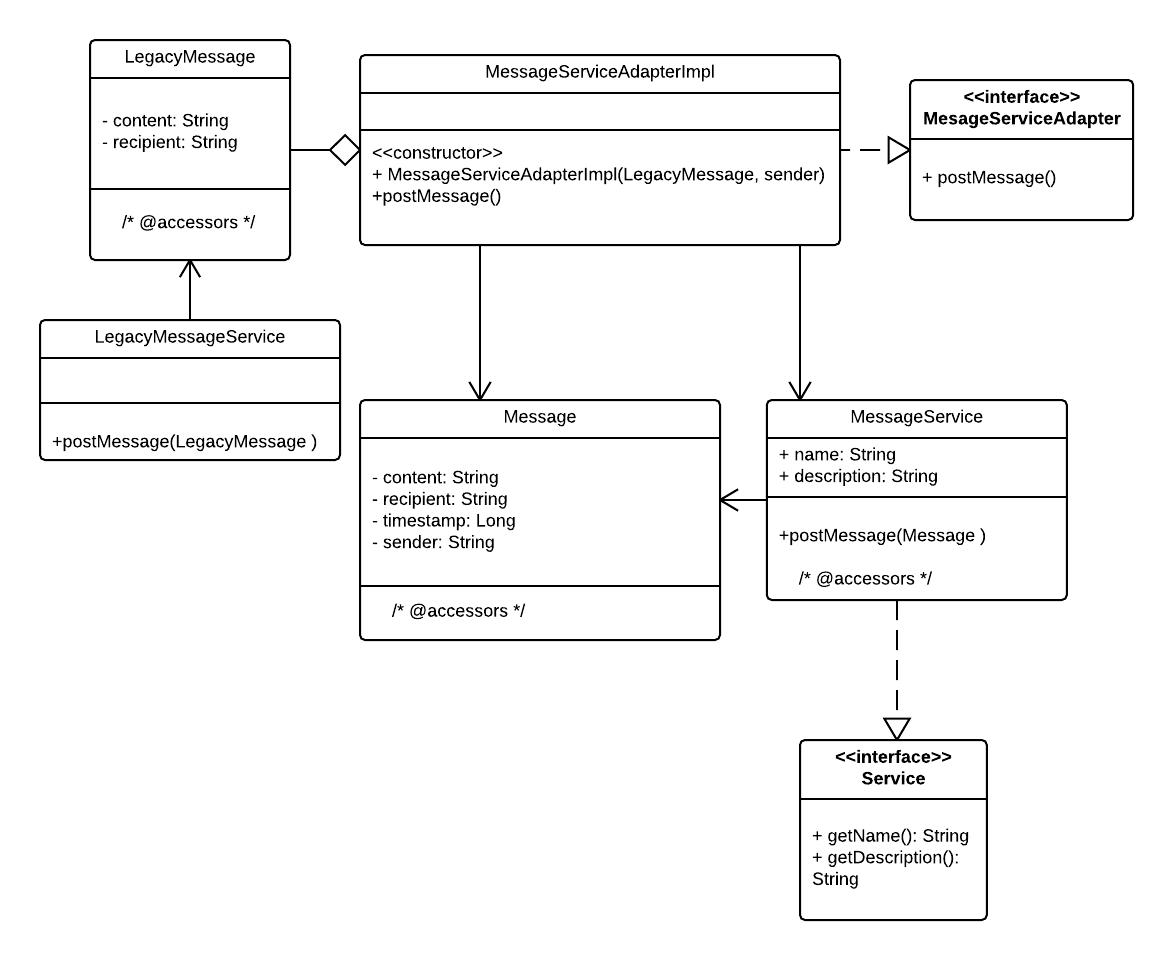
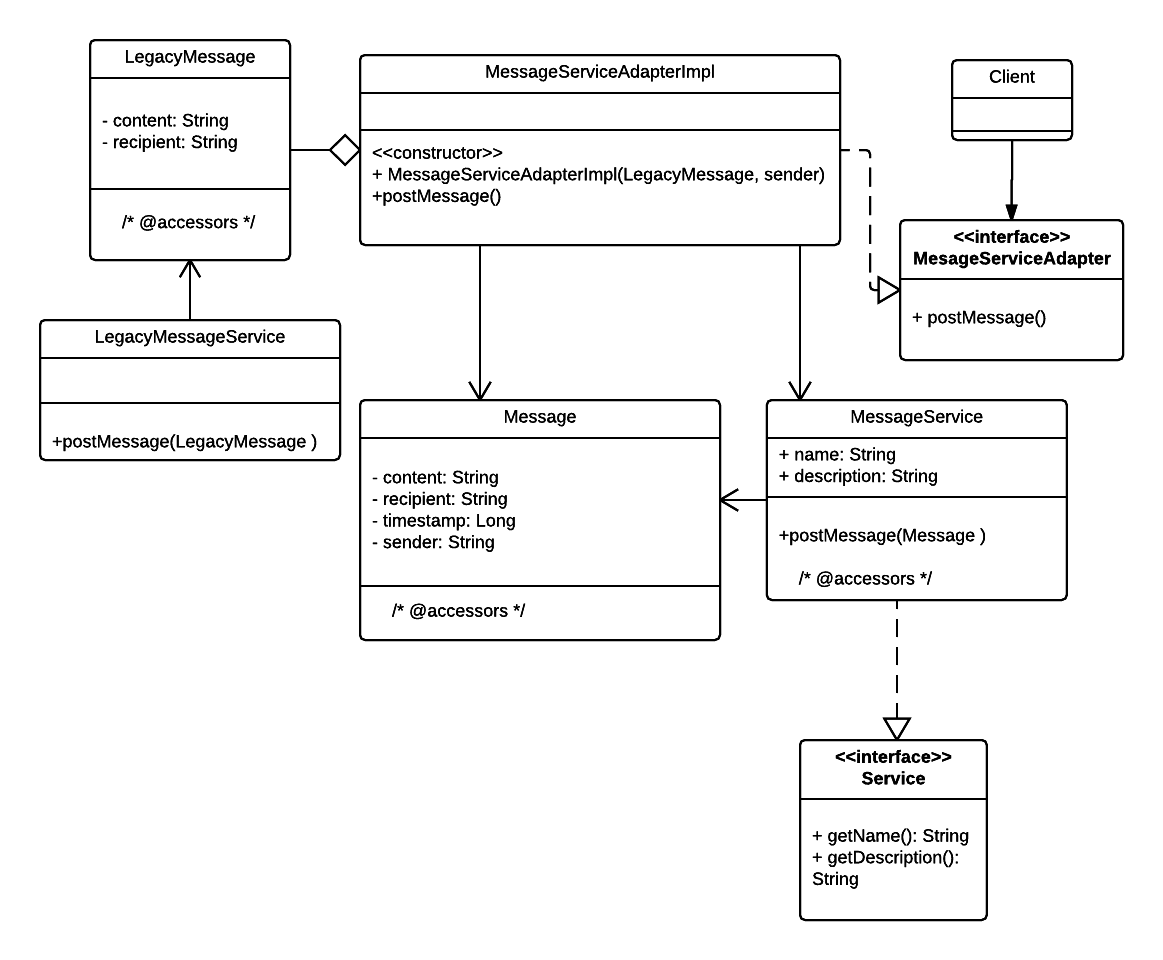
addition to diagram and comments

diff --git a/src/com/acordier/patterns/MessageServiceAdapterImpl.java b/src/com/acordier/patterns/MessageServiceAdapterImpl.java
@@ -19,7 +19,7 @@ public class MessageServiceAdapterImpl implements MessageServiceAdapter{
 		Message message = new Message(legacyMessage.getContent(), null, legacyMessage.getRecipient());
 		message.setSender(this.sender);
 		message.setTimestamp(new Date().getTime());		
-		new MessageService("adapted message service", "sending a legacy messaage adapted for the new world").postMessage(message);
+		new MessageService("adapted message service", "sending a legacy message adapted for the new world").postMessage(message);
 	}
 
 }

diff --git a/src/com/acordier/patterns/AdapterApp.java b/src/com/acordier/patterns/AdapterApp.java
@@ -3,6 +3,8 @@ package com.acordier.patterns;
 public class AdapterApp {
 	/*
 	 * Simple, straight forward adapter design pattern example
+	 * A legacy message system needs to adapt to a bit more sophisticated message system
+	 * Adapter pattern will allow us to provide the legacy world to fit new world requirements
 	 */
 	public static void main(String[] args) {
 		LegacyMessage legacyMessage = new LegacyMessage("bob", "a secret message");

diff --git a/src/com/acordier/patterns/LegacyMessageService.java b/src/com/acordier/patterns/LegacyMessageService.java
@@ -1,7 +1,7 @@
 package com.acordier.patterns;
 
 /*
- * Legacy message service 
+ * Legacy message service (in the legacy world we don't use interfaces)
  */
 public class LegacyMessageService {
 	public void postMessage(LegacyMessage legacyMessage){

diff --git a/src/com/acordier/patterns/Service.java b/src/com/acordier/patterns/Service.java
@@ -1,7 +1,7 @@
 package com.acordier.patterns;
 
 /*
- * Interface contract enforced by the new (non legacy) system
+ * The new  world service contract
  */
 public interface Service {
 	public String getName();

diff --git a/src/com/acordier/patterns/MessageService.java b/src/com/acordier/patterns/MessageService.java
@@ -3,7 +3,7 @@ package com.acordier.patterns;
 import java.util.Date;
 
 /*
- * New world message service 
+ * New world message service implementation
  */
 public class MessageService implements Service {
 	
